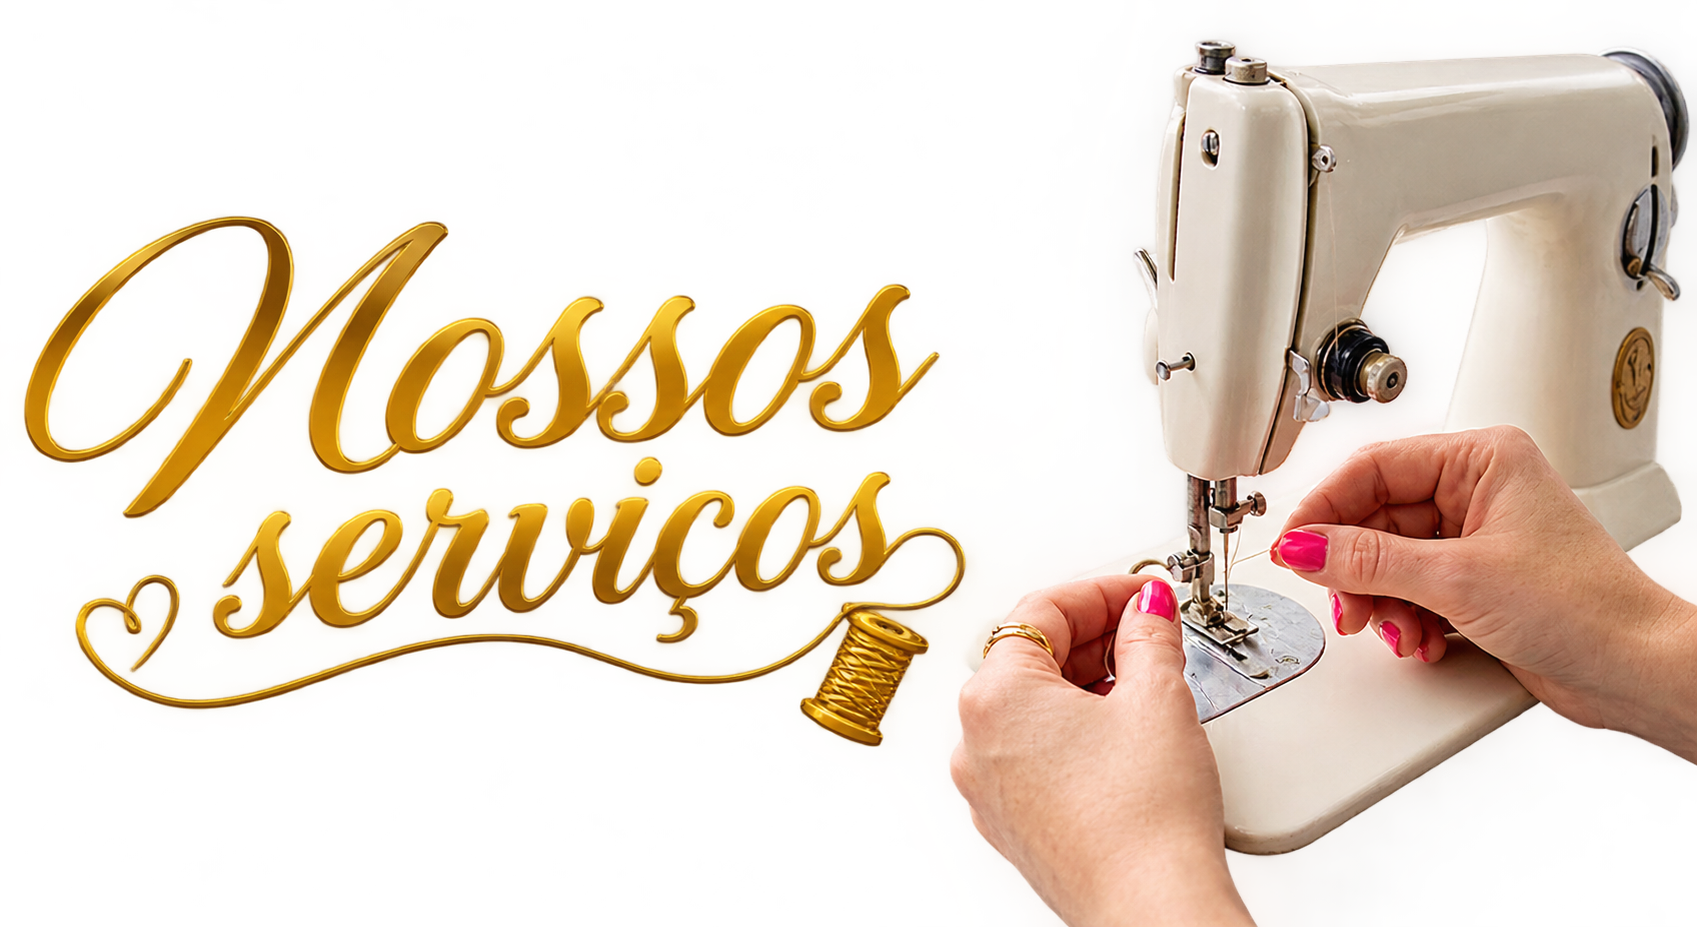
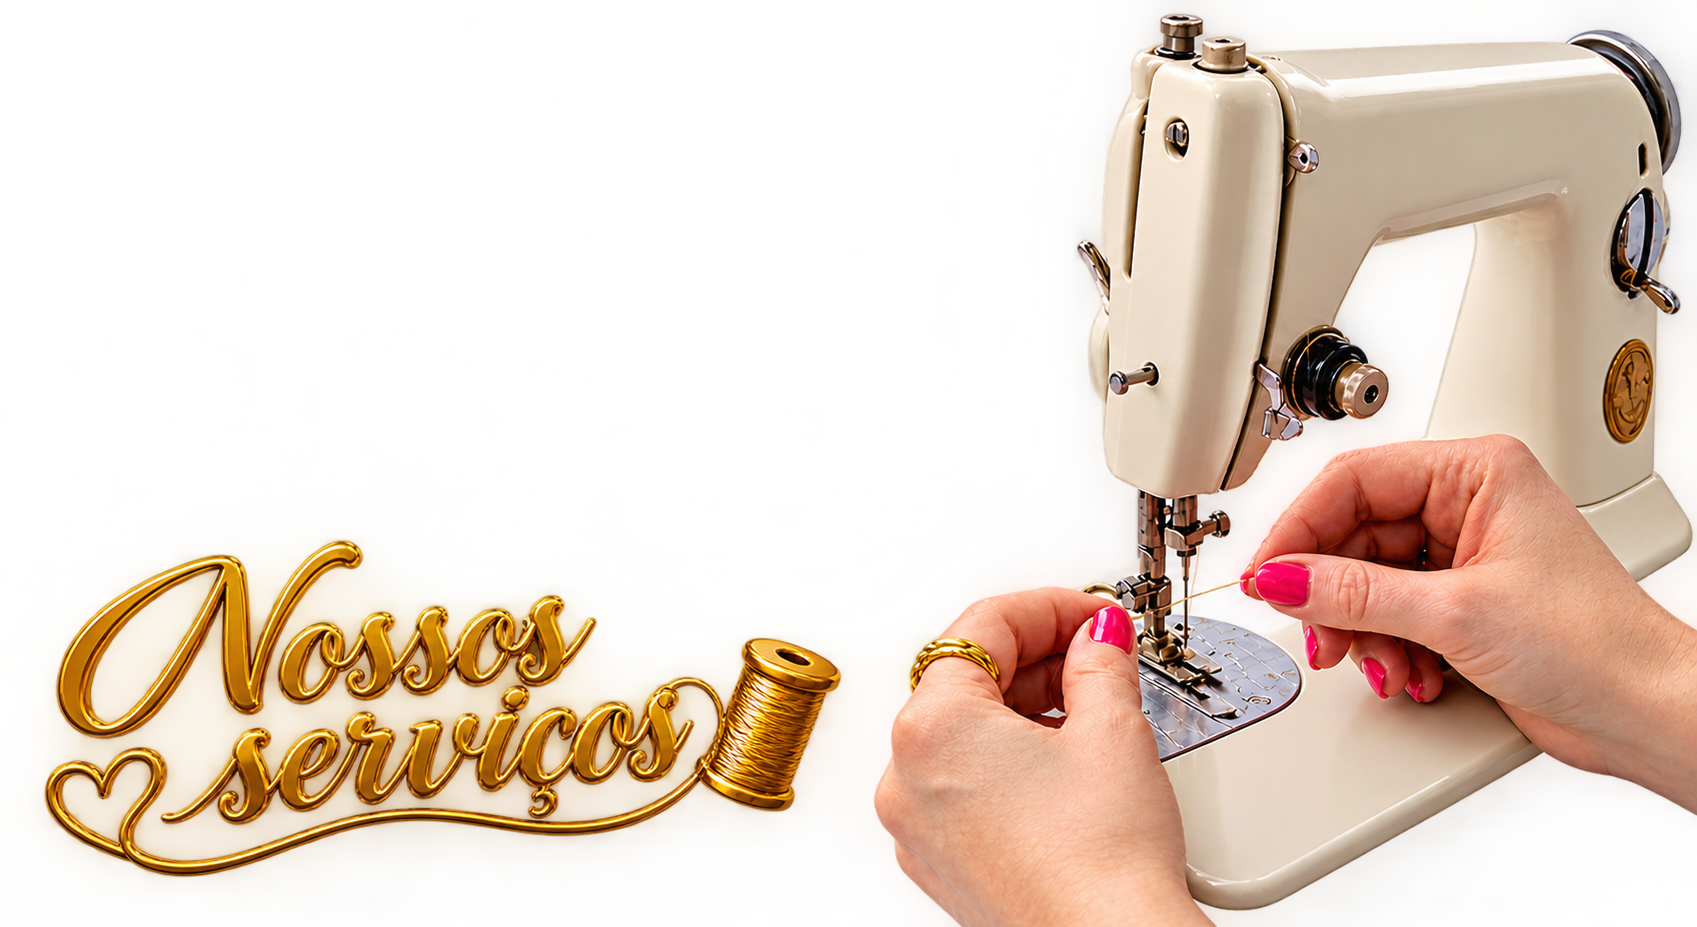
Add files via upload

diff --git a/index.html b/index.html
@@ -6,13 +6,14 @@
 <link rel="preconnect" href="https://fonts.googleapis.com">
 <link rel="preconnect" href="https://fonts.gstatic.com" crossorigin>
 <link href="https://fonts.googleapis.com/css2?family=Great+Vibes&display=swap" rel="stylesheet">
+
 <link rel="preconnect" href="https://fonts.googleapis.com">
 <link rel="preconnect" href="https://fonts.gstatic.com" crossorigin>
-<link href="https://fonts.googleapis.com/css2?family=Bilbo+Swash+Caps&display=swap" rel="stylesheet">
+<link href="https://fonts.googleapis.com/css2?family=Bilbo+Swash+Caps&family=Lora:ital,wght@0,400..700;1,400..700&display=swap" rel="stylesheet">
 
 
 <style>
-h2{font-family:"Bilbo Swash Caps",serif;font-size:40px}
+h2{font-family:"Lora:ital",serif;font-size:28px}
 h1{font-family:"Great Vibes",serif;font-size:70px}
 
 body{background-image:url("Flor de fundo do site.png");color:white;background-size:cover;background-repeat:no repeat;background-attachment:fixed;background-position:center}
